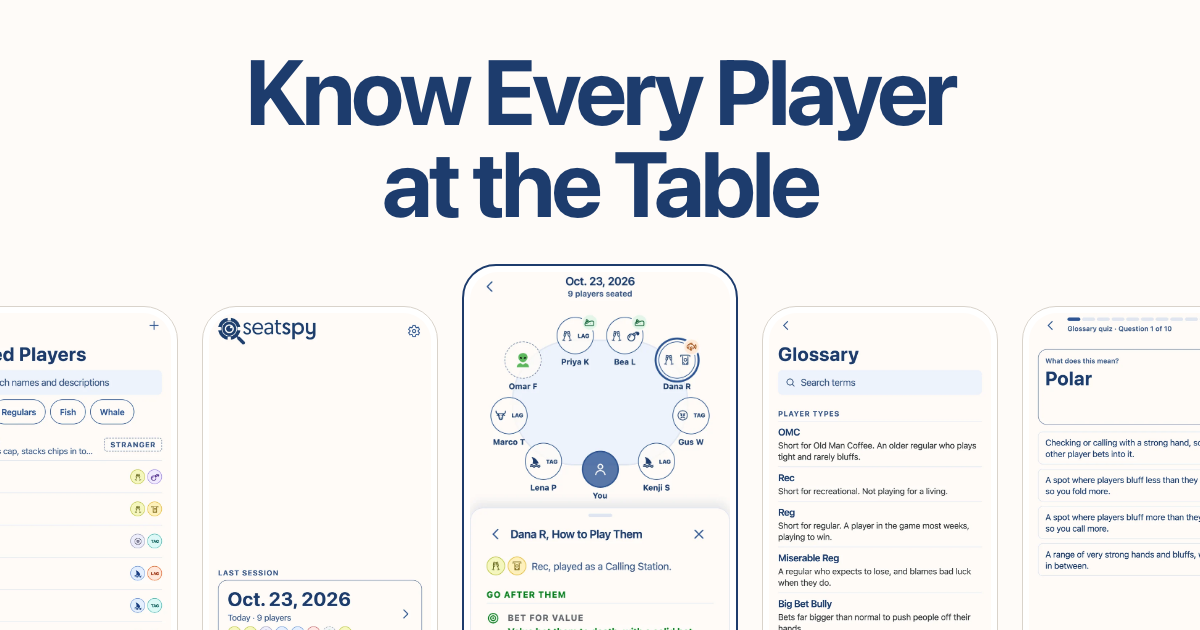
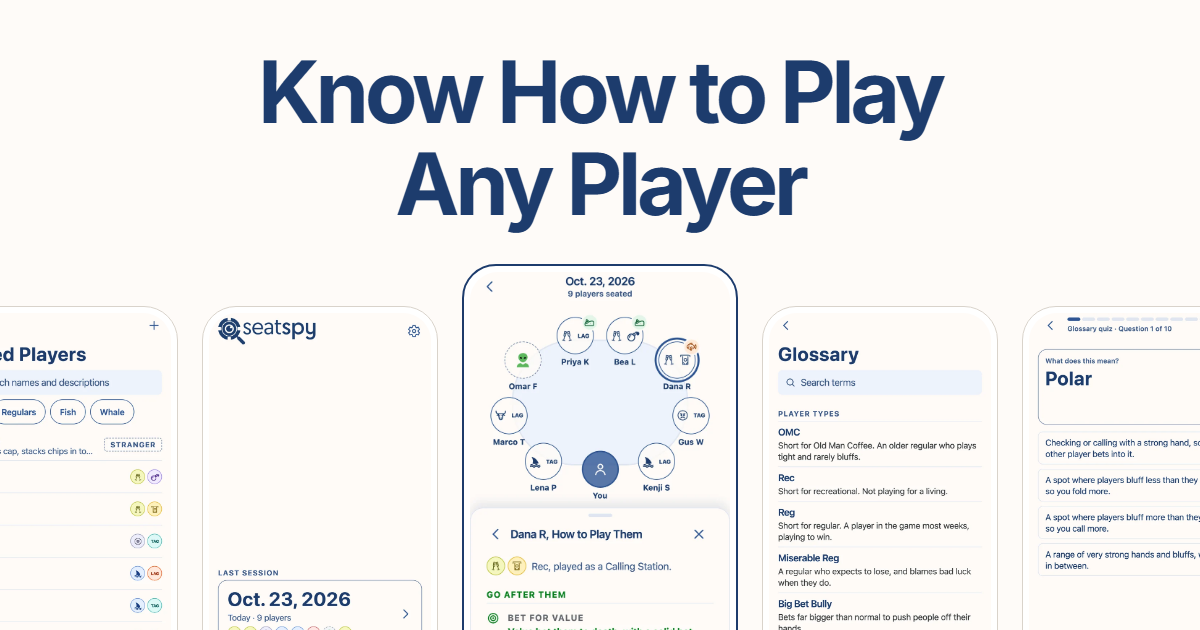
SeatSpy tagline: Know How to Play Any Player

Changed region(s): [[0.185, 0.0905, 0.8017, 0.3921]]

diff --git a/seatspy/index.html b/seatspy/index.html
@@ -3,11 +3,11 @@
 <head>
   <meta charset="utf-8">
   <meta name="viewport" content="width=device-width, initial-scale=1">
-  <title>SeatSpy: Know Every Player at the Table</title>
+  <title>SeatSpy: Know How to Play Any Player</title>
   <meta name="description" content="SeatSpy is an iPhone app that keeps a read on every poker player you face, and tells you how to play them.">
-  <meta property="og:title" content="SeatSpy: Know Every Player at the Table">
+  <meta property="og:title" content="SeatSpy: Know How to Play Any Player">
   <meta property="og:description" content="An iPhone app that keeps a read on every poker player you face, and tells you how to play them.">
-  <meta property="og:image" content="https://colossalhippo.com/seatspy/og.png">
+  <meta property="og:image" content="https://colossalhippo.com/seatspy/og.png?v=2">
   <meta property="og:url" content="https://colossalhippo.com/seatspy/">
   <meta name="twitter:card" content="summary_large_image">
   <link rel="icon" href="favicon.png">
@@ -24,8 +24,8 @@
 
 <header class="hero t-stagger">
   <h1>
-    <span class="t-stagger-line t-stagger-line--1">Know Every Player</span>
-    <span class="t-stagger-line t-stagger-line--2">at the Table</span>
+    <span class="t-stagger-line t-stagger-line--1">Know How to Play</span>
+    <span class="t-stagger-line t-stagger-line--2">Any Player</span>
   </h1>
   <p class="lede t-stagger-line t-stagger-line--3">SeatSpy keeps a read on the people you play poker with. Seat the table, tag each player’s type, and see how to play them before the next hand.</p>
   <div class="request t-stagger-line t-stagger-line--4" id="request">
